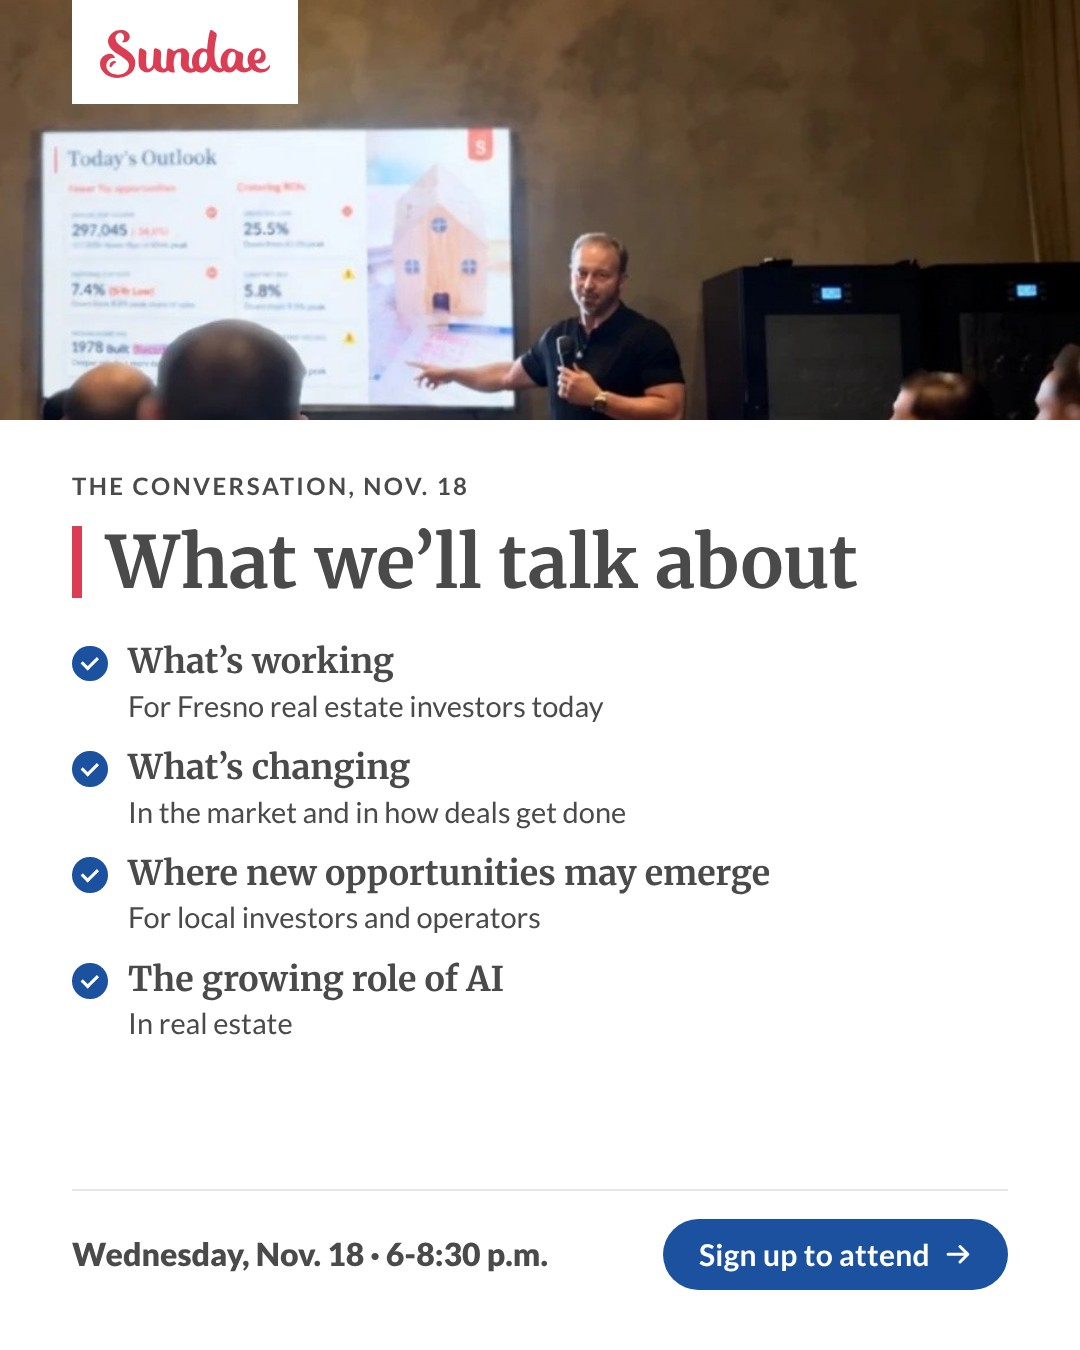
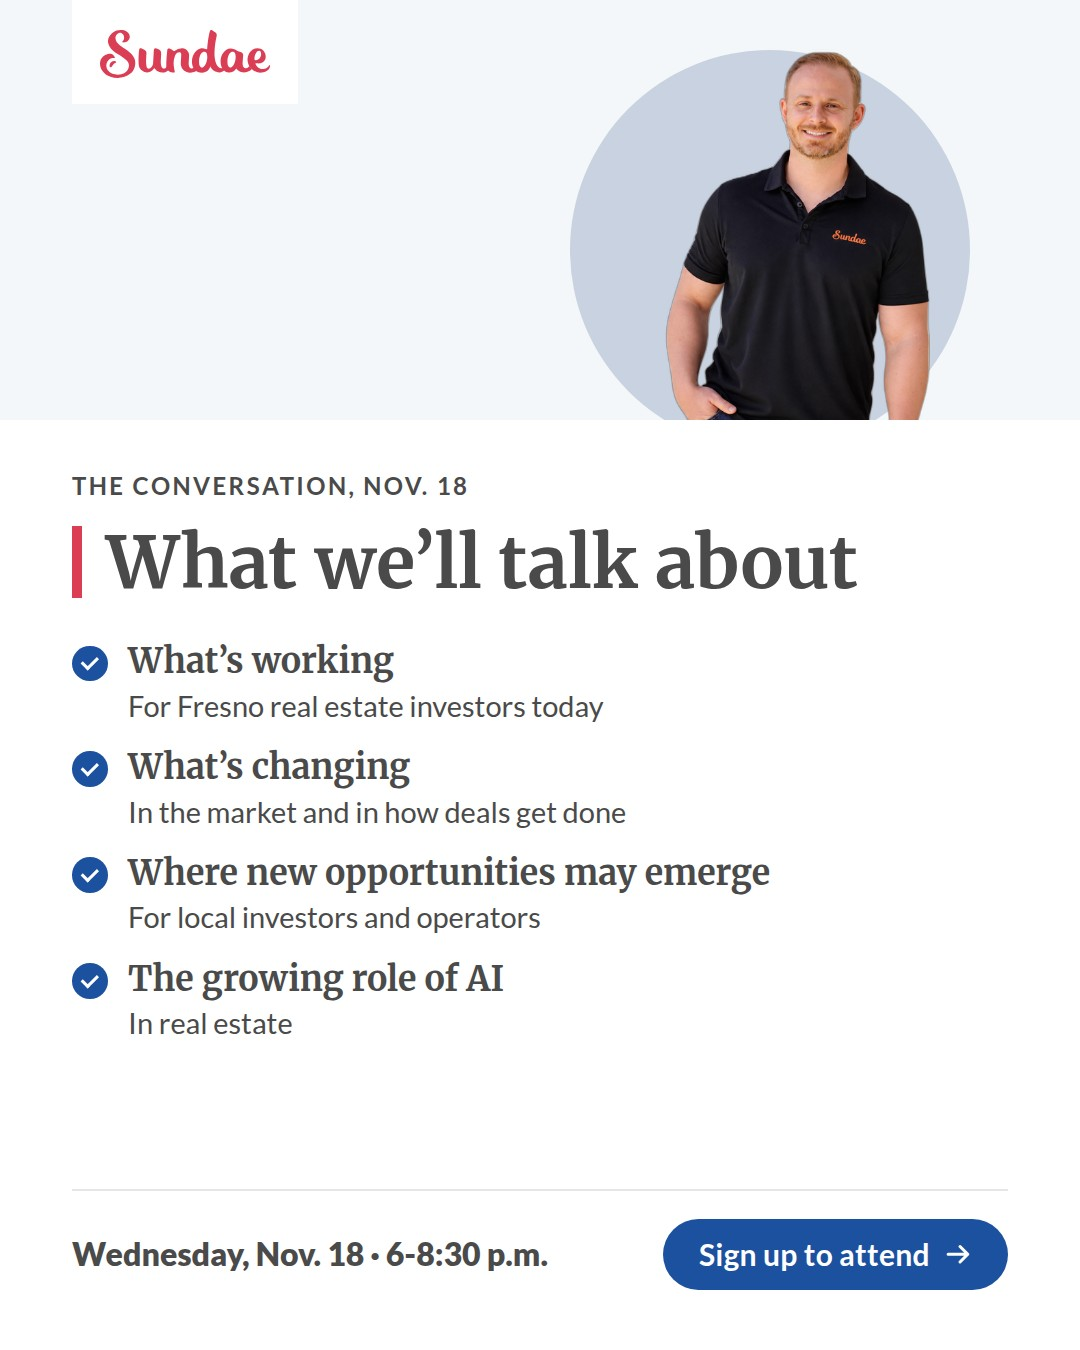
Creative change 20261103-174211-pexc: events/fresno-2026-11-18/images/05C (done)

diff --git a/engine/creatives/events/fresno-2026-11-18/images/05C.html b/engine/creatives/events/fresno-2026-11-18/images/05C.html
@@ -1,7 +1,10 @@
 <!doctype html><html><head><meta charset="utf-8"><link rel="stylesheet" href="/kit/base.css"><style>
 html,body{width:1080px;height:1350px} .canvas{width:1080px;height:1350px} </style></head>
 <body><div class="canvas">
-<div class="photo" style="left:0;top:0;width:1080px;height:420px;background-image:url(/kit/assets/sac-dinner.jpg);background-position:50% 36%"></div>
+<div class="panel" style="position:absolute;left:0;top:0;width:1080px;height:420px;overflow:hidden">
+  <div class="shape-circle" style="right:110px;top:50px;width:400px;height:400px"></div>
+  <img src="/kit/assets/josh-polo-cutout.png" alt="Josh Stech" style="position:absolute;right:150px;bottom:0;height:390px;width:auto;display:block">
+</div>
 <div class="wm-tab" style="left:72px;top:0;padding:30px 28px 26px"><img class="wm" src="/kit/assets/sundae-wordmark-red.svg" alt="Sundae" style="width:170px"></div>
 <div style="position:absolute;left:72px;right:72px;top:470px">
   <div class="eyebrow" style="font-size:24px">The conversation, Nov. 18</div>
